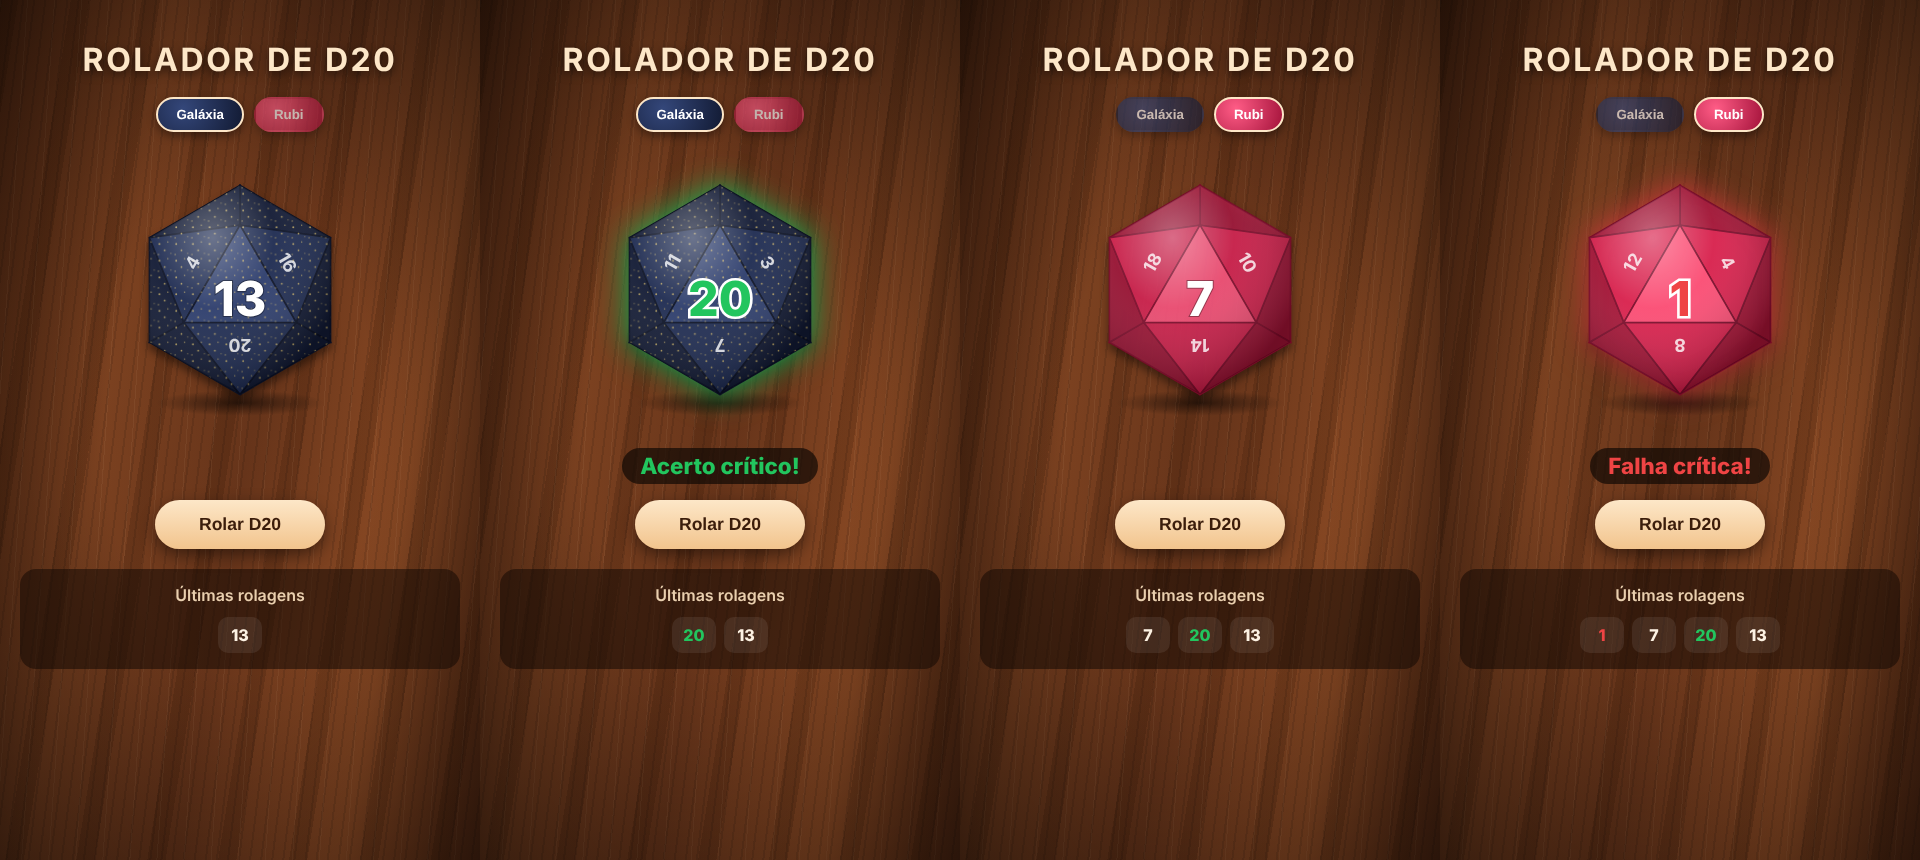
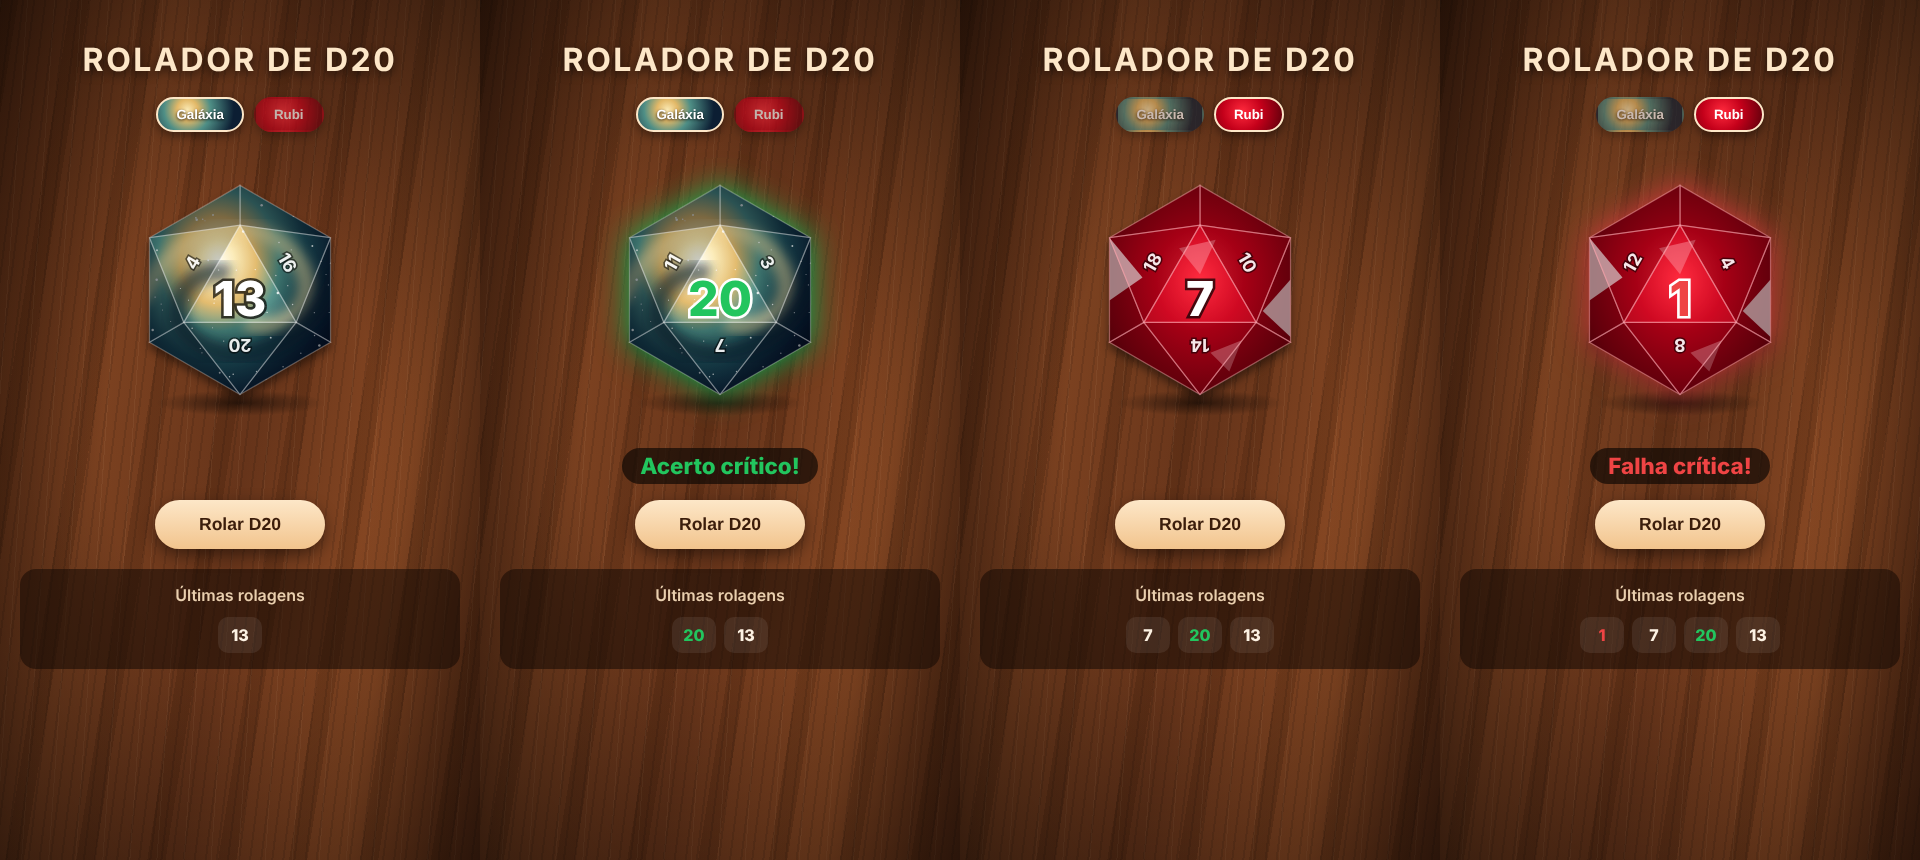
Texturas de galáxia espiral e rubi lapidado nos dados
Claude-Session: https://claude.ai/code/session_01NWqKKeUTxpKfpBGxqCR4Fm

diff --git a/components/DadoD20.js b/components/DadoD20.js
@@ -20,6 +20,9 @@ const NUMEROS_VIZINHOS = [
     { x: -45.5, y: -26.3, giro: -60 },
 ]
 
+// Estrelas do modelo Galáxia (posições fixas)
+const ESTRELAS = [[-33.5, -66.3, 0.5], [-81.2, 6.8, 0.7], [15.7, 77.8, 0.6], [-87.9, -12.6, 0.5], [-49.3, 9.7, 0.5], [62.1, -71.5, 0.6], [24.8, 15.8, 0.5], [14.6, -19.6, 0.6], [-86.1, 68.1, 0.7], [-15.4, 7.7, 1.2], [-36.4, 60.1, 0.6], [-75.4, 13.5, 0.6], [-24.2, 9.1, 0.5], [12.2, 22.6, 0.9], [34.3, -13.8, 0.7], [-6.5, 80.5, 0.7], [-38.0, 55.9, 0.6], [-79.4, -38.0, 0.9], [71.3, 43.6, 0.7], [20.7, -81.1, 1.2], [-15.6, 48.9, 0.6], [82.3, -14.9, 0.5], [50.3, 13.9, 0.7], [-30.4, -28.5, 0.9], [15.2, -8.3, 0.5], [84.5, -4.9, 0.5], [-83.5, 38.3, 1.2], [93.7, 61.2, 0.7], [41.2, 73.5, 0.7], [-90.7, -7.3, 0.6], [21.1, -1.2, 0.6], [51.0, -70.4, 0.6], [-19.4, 79.2, 0.9], [-79.7, -9.7, 1.2], [-42.2, -69.0, 0.9], [69.2, -42.1, 0.9], [92.4, 34.7, 0.9], [87.0, -66.3, 0.6], [-66.3, 30.1, 0.5], [-2.9, 16.9, 0.7], [-41.4, -67.3, 1.2], [-24.8, 12.6, 0.6], [36.2, 2.9, 1.2], [29.4, 45.6, 0.9], [75.9, 53.2, 1.2], [-20.4, -19.2, 0.5], [-3.5, -18.9, 0.6], [-82.2, -55.3, 0.6], [-74.1, 19.1, 0.5], [-95.0, -66.3, 0.5], [85.3, 21.6, 0.5], [71.1, 21.7, 0.6], [25.5, 86.5, 1.2], [-25.8, -71.7, 0.9], [93.7, -6.5, 0.9], [-35.7, -67.6, 0.7], [45.7, -4.1, 0.6], [3.1, -56.0, 1.2], [-26.3, 36.1, 0.5], [49.0, -38.4, 0.5], [37.3, -45.4, 0.7], [77.6, -27.4, 0.6], [6.2, 53.0, 0.7], [25.9, 21.5, 0.6], [58.2, 60.5, 0.6], [-57.0, -1.4, 0.5], [93.0, 55.1, 0.9], [-45.8, 36.6, 0.7], [-10.0, 83.0, 0.7], [86.5, -25.7, 0.6]]
+
 // Números das faces vizinhas: só decoração, sempre diferentes do resultado
 function vizinhosDe(valor) {
     if (valor === null) return [8, 14, 2]
@@ -30,22 +33,57 @@ export default function DadoD20({ valor, estilos }) {
     const sublinhado = valor === 6 || valor === 9
 
     return (
-        <svg viewBox="-110 -110 220 220" className={estilos.svg} aria-hidden="false" role="img">
+        <svg viewBox="-110 -110 220 220" className={estilos.svg} role="img">
             <defs>
-                <pattern id="brilho" width="16" height="16" patternUnits="userSpaceOnUse">
-                    <circle cx="3" cy="4" r="0.9" className={estilos.purpurina} />
-                    <circle cx="11" cy="2" r="0.6" className={estilos.purpurina} />
-                    <circle cx="8" cy="10" r="0.8" className={estilos.purpurina} />
-                    <circle cx="14" cy="13" r="0.5" className={estilos.purpurina} />
-                    <circle cx="2" cy="14" r="0.6" className={estilos.purpurina} />
-                </pattern>
-                <radialGradient id="reflexo" cx="35%" cy="25%" r="75%">
-                    <stop offset="0%" stopColor="#ffffff" stopOpacity="0.35" />
-                    <stop offset="45%" stopColor="#ffffff" stopOpacity="0.05" />
-                    <stop offset="100%" stopColor="#000000" stopOpacity="0.25" />
+                <clipPath id="recorte-dado">
+                    <polygon points={pontos(HEXAGONO)} />
+                </clipPath>
+
+                {/* Galáxia: núcleo claro e dourado, braços verde-azulados, espaço escuro */}
+                <radialGradient id="galaxia-fundo" cx="38%" cy="36%" r="75%">
+                    <stop offset="0%" stopColor="#fffdf2" />
+                    <stop offset="12%" stopColor="#fbeab4" />
+                    <stop offset="28%" stopColor="#e2b867" />
+                    <stop offset="45%" stopColor="#4f8f86" />
+                    <stop offset="65%" stopColor="#1c4652" />
+                    <stop offset="85%" stopColor="#0c1e33" />
+                    <stop offset="100%" stopColor="#060b1c" />
+                </radialGradient>
+                <filter id="desfoque">
+                    <feGaussianBlur stdDeviation="5" />
+                </filter>
+
+                {/* Rubi: vermelho profundo com reflexos */}
+                <radialGradient id="rubi-fundo" cx="50%" cy="45%" r="70%">
+                    <stop offset="0%" stopColor="#ff2a3d" />
+                    <stop offset="35%" stopColor="#c4001a" />
+                    <stop offset="75%" stopColor="#7d0010" />
+                    <stop offset="100%" stopColor="#3d0006" />
                 </radialGradient>
             </defs>
 
+            <g clipPath="url(#recorte-dado)">
+                <polygon points={pontos(HEXAGONO)} className={estilos.fundo} />
+
+                {/* Braços da galáxia e estrelas */}
+                <g className={estilos.camadaGalaxia}>
+                    <path d="M -95 10 C -60 -70, 30 -80, 60 -20 C 75 15, 40 45, 5 30" className={estilos.bracoClaro} filter="url(#desfoque)" />
+                    <path d="M 95 -20 C 70 60, -20 85, -55 35 C -70 10, -45 -25, -10 -15" className={estilos.bracoEscuro} filter="url(#desfoque)" />
+                    {ESTRELAS.map(([x, y, r], i) => (
+                        <circle key={i} cx={x} cy={y} r={r} className={estilos.estrela} />
+                    ))}
+                </g>
+
+                {/* Reflexos brancos de pedra lapidada */}
+                <g className={estilos.camadaRubi}>
+                    <polygon points="-86.6,-50 -55,-12 -86.6,10" className={estilos.reflexoForte} />
+                    <polygon points="86.6,-10 60,20 86.6,45" className={estilos.reflexoForte} />
+                    <polygon points="-20,-40 15,-48 0,-15" className={estilos.reflexoFraco} />
+                    <polygon points="10,60 40,48 28,78" className={estilos.reflexoFraco} />
+                </g>
+            </g>
+
+            {/* Facetas: cada face com um tom, por cima do fundo */}
             {BORDAS.map((face, i) => (
                 <polygon key={`b${i}`} points={pontos(face)} className={estilos.faceBorda} />
             ))}
@@ -53,10 +91,6 @@ export default function DadoD20({ valor, estilos }) {
                 <polygon key={`v${i}`} points={pontos(face)} className={estilos.faceVizinha} />
             ))}
             <polygon points={pontos(TOPO)} className={estilos.faceTopo} />
-
-            {/* purpurina (aparece no modelo Galáxia) e reflexo de luz */}
-            <polygon points={pontos(HEXAGONO)} fill="url(#brilho)" className={estilos.camadaBrilho} />
-            <polygon points={pontos(HEXAGONO)} fill="url(#reflexo)" />
 
             {vizinhosDe(valor).map((n, i) => {
                 const { x, y, giro } = NUMEROS_VIZINHOS[i]

diff --git a/styles/Dado.module.css b/styles/Dado.module.css
@@ -39,11 +39,12 @@
 }
 
 .amostra_galaxia {
-    background: radial-gradient(circle at 30% 30%, #34477a, #121a33);
+    background: radial-gradient(circle at 35% 35%, #fbeab4 0%, #e2b867 18%, #4f8f86 40%, #0c1e33 80%);
+    text-shadow: 0 1px 3px rgba(0, 0, 0, 0.9);
 }
 
 .amostra_rubi {
-    background: radial-gradient(circle at 30% 30%, #ff5c86, #a3123a);
+    background: radial-gradient(circle at 40% 40%, #ff2a3d, #c4001a 45%, #5a000b);
 }
 
 /* ---------- Mesa e dado ---------- */
@@ -80,19 +81,43 @@
     background: radial-gradient(ellipse, rgba(0, 0, 0, 0.55), transparent 70%);
 }
 
-/* Modelo Galáxia: azul-escuro com purpurina dourada */
-.galaxia .faceTopo { fill: #2c3c6b; }
-.galaxia .faceVizinha { fill: #1d2a50; }
-.galaxia .faceBorda { fill: #111933; }
-.galaxia .faceTopo, .galaxia .faceVizinha, .galaxia .faceBorda { stroke: #0a1024; stroke-width: 1.5; }
-.galaxia .purpurina { fill: #e8c96b; opacity: 0.75; }
+/* Camadas de fundo de cada modelo */
+.camadaGalaxia,
+.camadaRubi {
+    display: none;
+}
 
-/* Modelo Rubi: vermelho translúcido */
-.rubi .faceTopo { fill: #ff4f7b; fill-opacity: 0.88; }
-.rubi .faceVizinha { fill: #d81c4e; fill-opacity: 0.88; }
-.rubi .faceBorda { fill: #9e0f35; fill-opacity: 0.9; }
-.rubi .faceTopo, .rubi .faceVizinha, .rubi .faceBorda { stroke: #7a0a28; stroke-width: 1.5; }
-.rubi .camadaBrilho { display: none; }
+.galaxia .camadaGalaxia,
+.rubi .camadaRubi {
+    display: inline;
+}
+
+/* Modelo Galáxia: núcleo dourado, braços verde-azulados e estrelas */
+.galaxia .fundo { fill: url(#galaxia-fundo); }
+.bracoClaro { fill: none; stroke: #f6dc9c; stroke-width: 16; opacity: 0.55; }
+.bracoEscuro { fill: none; stroke: #0a2233; stroke-width: 18; opacity: 0.6; }
+.estrela { fill: #ffffff; opacity: 0.85; }
+
+.galaxia .faceTopo { fill: #ffffff; fill-opacity: 0.06; }
+.galaxia .faceVizinha { fill: #001018; fill-opacity: 0.22; }
+.galaxia .faceBorda { fill: #000814; fill-opacity: 0.45; }
+.galaxia .faceTopo, .galaxia .faceVizinha, .galaxia .faceBorda {
+    stroke: rgba(255, 255, 255, 0.28);
+    stroke-width: 1.2;
+}
+
+/* Modelo Rubi: vermelho profundo lapidado com reflexos brancos */
+.rubi .fundo { fill: url(#rubi-fundo); }
+.reflexoForte { fill: #ffffff; opacity: 0.75; }
+.reflexoFraco { fill: #ffb3bd; opacity: 0.45; }
+
+.rubi .faceTopo { fill: #ff3348; fill-opacity: 0.18; }
+.rubi .faceVizinha { fill: #4a0008; fill-opacity: 0.25; }
+.rubi .faceBorda { fill: #2a0004; fill-opacity: 0.35; }
+.rubi .faceTopo, .rubi .faceVizinha, .rubi .faceBorda {
+    stroke: rgba(255, 170, 180, 0.45);
+    stroke-width: 1.2;
+}
 
 /* Números brancos, como no dado real */
 .numero {
@@ -101,15 +126,18 @@
     fill: currentColor;
     color: #ffffff;
     paint-order: stroke;
-    stroke: rgba(0, 0, 0, 0.35);
-    stroke-width: 2px;
+    stroke: rgba(0, 0, 0, 0.7);
+    stroke-width: 5px;
 }
 
 .numeroVizinho {
     font-size: 17px;
     font-weight: 700;
     fill: #ffffff;
-    opacity: 0.8;
+    opacity: 0.9;
+    paint-order: stroke;
+    stroke: rgba(0, 0, 0, 0.6);
+    stroke-width: 3px;
 }
 
 /* 20 = número verde, 1 = número vermelho, com contorno branco e brilho no dado */

diff --git a/README.md b/README.md
@@ -10,8 +10,8 @@ Simulador de um dado de 20 faces (D20), como os usados em RPG de mesa, feito em 
 
 Inspirado em dois dados de verdade sobre uma mesa de madeira: o dado aparece visto de cima, com a face sorteada no centro e as faces vizinhas em volta. Dá para escolher entre dois modelos:
 
-- **Galáxia**: azul-escuro com purpurina dourada
-- **Rubi**: vermelho translúcido
+- **Galáxia**: núcleo dourado, braços verde-azulados e estrelas, como uma galáxia espiral
+- **Rubi**: vermelho profundo lapidado, com reflexos brancos como uma pedra preciosa
 
 ## Regras
 
